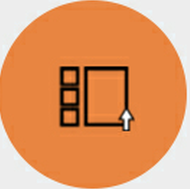
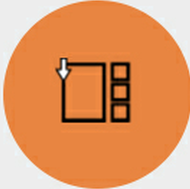
添加登录和退出功能；添加‘一键备份和一键迁移’两个页面

Changed region(s): [[0.2895, 0.291, 0.7105, 0.7143], [0.5263, 0.0, 1.0, 1.0], [0.0, 0.0, 0.4737, 1.0]]

diff --git a/static/js/controllers.js b/static/js/controllers.js
@@ -4,10 +4,12 @@
 
 var cloudAppControllers = angular.module('cloudAppControllers', ['ui.bootstrap']);
 
-cloudAppControllers.controller('loginCtrl', ['$scope',  'Request',
-  function($scope, Request) {
+cloudAppControllers.controller('loginCtrl', ['$scope','$http','$location','Message',
+  function($scope, $http,$location,Message) {
   
 	/* code section */
+  
+
 	var password_strength = function(pwd) {
     var strongRegex = new RegExp("^(?=.{8,})(?=.*[A-Z])(?=.*[a-z])(?=.*[0-9])(?=.*\\W).*$", "g");
     var mediumRegex = new RegExp("^(?=.{7,})(((?=.*[A-Z])(?=.*[a-z]))|((?=.*[A-Z])(?=.*[0-9]))|((?=.*[a-z])(?=.*[0-9]))).*$", "g");
@@ -26,10 +28,54 @@ cloudAppControllers.controller('loginCtrl', ['$scope',  'Request',
   $scope.login = function(){
     var result = password_strength($scope.password);
     console.log(result);
+  $http({method: 'POST', 
+            url: '/login',
+            data:{username:$scope.username, password:hex_md5($scope.password)}
+        }).
+    success(function(data, status, headers, config){
+      if(data.code == 1){
+        $location.path('/main');
+      } else {
+        console.log(data);
+      }
+    }).
+    error(function(data,status,headers,config){
+      console.log('failed get base network datas!');
+    });
   }
 
-
   }]);
+cloudAppControllers.controller('logoutCtrl', ['$rootScope','$scope','$timeout','$http','$location',
+  function($rootScope,$scope,$timeout,$http,$location){
+
+    $rootScope.isLogin = false;
+
+  $http.get('/xsrf', function(){
+      $http.post('/logout', {}, function(data){
+        Timeout(function(){$location.path('/');}, 3000, module);
+      });
+    });
+  $http({method: 'GET', 
+            url: '/xsrf'
+        }).
+    success(function(data, status, headers, config){
+      console.log(data);
+      $http({method: 'POST',
+                url:   '/logout',
+                data: {}}).
+            success(function(data,status,headers,config){
+                console.log('copy the return result.');
+                $location.path('/');
+            }).
+            error(function(data,status,headers,config){
+                  console.log('redict to root path failed');
+            });
+    }).
+    error(function(data,status,headers,config){
+      console.log('failed get base network datas!');
+    });
+
+}]);
 
 cloudAppControllers.controller('mainCtrl', ['$rootScope','$scope','$timeout','$http','$location',
   function($rootScope,$scope,$timeout,$http,$location){
@@ -72,36 +118,6 @@ cloudAppControllers.controller('mainCtrl', ['$rootScope','$scope','$timeout','$h
     }).
     error(function(data, status, headers, config) {
       console.log('failed get base system information');
-    });
-    $http({method: 'GET', url: rootUrl+'/query/server.rxtx'}).
-    success(function(data, status, headers, config){
-      lastData = data;
-      console.log(lastData);
-    }).
-    error(function(data,status,headers,config){
-      console.log('failed get base network datas!');
-    });
-
-    function yanshi(inttime){//延时（暂停）函数
-      var timestamp = new Date().getTime();
-      var jisuantime = timestamp
-      var jg;
-      while((jg=jisuantime*1-timestamp*1)<inttime){
-          jisuantime = new Date().getTime();
-     }
-      return jg;
-    }
-      setTimeout("console.log('1 秒！')",1000)
-      console.log('延迟了'+yanshi(9500)+'毫秒');
-
-
-    $http({method: 'GET', url: rootUrl+'/query/server.rxtx'}).
-    success(function(data, status, headers, config){
-      currentData = data;
-      console.log(currentData);
-    }).
-    error(function(data,status,headers,config){
-      console.log('failed get base network datas!');
     });
 
     // end your function codes
@@ -181,5 +197,19 @@ cloudAppControllers.controller('lnmp-installCtrl', ['$rootScope','$scope',
   /* custom code section */
   $rootScope.htmlTitle = "一键通";
   $scope.install_process_value = 30;
+  
+  }]);
+
+cloudAppControllers.controller('backupCtrl', ['$rootScope','$scope',
+  function($rootScope,$scope) {
+  /* custom code section */
+  $rootScope.htmlTitle = "一键通";
+  
+  }]);
+
+cloudAppControllers.controller('moveCtrl', ['$rootScope','$scope',
+  function($rootScope,$scope) {
+  /* custom code section */
+  $rootScope.htmlTitle = "一键通";
   
   }]);

diff --git a/static/partials/OneKey/index.html b/static/partials/OneKey/index.html
@@ -2,26 +2,12 @@
 	<br /><br /><br /><br /><br /><br /><br /><br /><br /><br />
 <ul class="ring clearfix">
 <li><a href="#"><img style="width:150px;" class="img-circle img-responsive" src="../../images/ring-nav/img1.png" /></a></li>
-<li><a href="#"><img style="width:150px;" class="img-circle img-responsive" src="../../images/ring-nav/img2.png" /></a></li>
-<li><a href="#"><img style="width:150px;" class="img-circle img-responsive" src="../../images/ring-nav/img3.png" /></a></li>
-<li><a href="#"><img style="width:150px;" class="img-circle img-responsive" src="../../images/ring-nav/img4.png" /></a></li>
+<li><a href="#"><img style="width:150px;" class="img-circle img-responsive" src="../../images/ring-nav/6.png" /></a></li>
+<li><a href="#"><img style="width:150px;" class="img-circle img-responsive" src="../../images/ring-nav/img6.png" /></a></li>
+<li><a href="#"><img style="width:150px;" class="img-circle img-responsive" src="../../images/ring-nav/2.png" /></a></li>
 <li><a href="#"><!-- 4444<label>55555</label> --><img style="width:150px;" class="img-circle img-responsive" src="../../images/ring-nav/img5.png" /></a></li>
 <li><a href="#"><img style="width:150px;" class="img-circle img-responsive" src="../../images/ring-nav/img6.png" /></a></li>
 <li><a href="#"><!-- <label>55555</label> --><img style="width:150px;" class="img-circle img-responsive" src="../../images/ring-nav/img5.png" /></a></li><!-- 这个是中间的图片 -->
 </ul>
 <br /><br /><br /><br /><br /><br /><br /><br /><br /><br /><br /><br /><br /><br /><br /><br /><br />
 </div>
-<!-- <div class="row"><br /><br />
-	<div class="col-lg-3 col-lg-offset-2"><img src="http://placehold.it/120x120" alt="..." class="img-circle img-responsive"></div>
-	<div class="col-lg-3 col-lg-offset-1"><img src="http://placehold.it/120x120" alt="" class="img-circle img-responsive">
-	</div>
-</div>
-<div class="row"><br /><br /><br />
-	<div class="col-lg-3 "><img src="http://placehold.it/120x120" alt="..." class="img-circle img-responsive"></div>
-	<div class="col-lg-3 col-lg-offset-1"><img src="http://placehold.it/120x120" alt="..." class="img-circle img-responsive"></div>
-	<div class="col-lg-3 col-lg-offset-1"><img src="http://placehold.it/120x120" alt="..." class="img-circle img-responsive"></div>
-</div>
-<div class="row"><br /><br /><br />
-	<div class="col-lg-3 col-lg-offset-2"><img src="http://placehold.it/120x120" alt="..." class="img-circle img-responsive"></div>
-	<div class="col-lg-3 col-lg-offset-1"><img src="http://placehold.it/120x120" alt="..." class="img-circle img-responsive"></div>
-</div> -->

diff --git a/static/partials/login.html b/static/partials/login.html
@@ -1,3 +1,4 @@
+<div ng-include src="'/xsrf'"></div>
 <form class="form-signin" role="form"  ng-submit="login()" onsubmit="return false" method="get" action="/">
 
     <h2 class="form-signin-heading text-center">用户登陆</h2>
@@ -5,10 +6,10 @@
     <input id='username' type="text"  maxlength="10" ng-model="username" class="form-control" placeholder="用户名" required autofocus>
     <input id='password' type="password" maxlength="12" ng-model="password" class="form-control" placeholder="密码" required >
 
-    <div class="col-lg-6 col-sm-6" style="padding-left:0"><input type="text" class="form-control" placeholder="{{username}}" required></div>
-	<div class="col-lg-6 col-sm-6" style="padding-right:0"><input type="text" class="form-control" placeholder="验证码" required></div>
+    <!-- <div class="col-lg-6 col-sm-6" style="padding-left:0"><input type="text" class="form-control" placeholder="{{username}}" required></div>
+	<div class="col-lg-6 col-sm-6" style="padding-right:0"><input type="text" class="form-control" placeholder="验证码" required></div> -->
 
-    <button  type="submit" id="login" class="btn btn-lg btn-primary btn-block"  ng-disabled="processing" ng-click="login()">登 陆</button>
+    <button  type="submit" id="login" class="btn btn-lg btn-primary btn-block"  ng-disabled="processing" >登 陆</button>
 	<div class="pull-right"><a  href="#/main"> 忘记密码?</a>	</div>
 </form>
 <script type="text/javascript">

diff --git a/static/js/directives.js b/static/js/directives.js
@@ -32,8 +32,8 @@ directive('navbar', function(){
   				<li><a href="#/sites/create">一键建站</a></li>\
   				<li><a href="#/sites/lamp">一键LAMP</a></li>\
   				<li><a href="#/sites/lnmp">一键LNMP</a></li>\
-  				<li><a href="#/sites/create">一键备份</a></li>\
-  				<li><a href="#/sites/lamp">一键迁移</a></li>\
+  				<li><a href="#/sites/backup">一键备份</a></li>\
+  				<li><a href="#/sites/move">一键迁移</a></li>\
   				<li><a href="#/sites/lnmp">一键优化</a></li>\
 			</ul>\
 		</accordion-group>\
@@ -51,6 +51,13 @@ directive('navbar', function(){
   				<li><a href="#/sites/lamp">用户列表</a></li>\
 			</ul>\
 		</accordion-group>\
+		<div class="panel panel-default" >\
+  			<div class="panel-heading text-center" style="background-color: #1375B2;">\
+    			<h4 class="panel-title">\
+     				<a href="#/logout" >退出</a>\
+    			</h4>\
+  			</div>\
+  		</div>\
  	 </accordion></div>',
 		replace: true
 	};

diff --git a/static/index.html b/static/index.html
@@ -48,6 +48,7 @@
 				<a class="comment btn btn-mini" href="http://blog.kyyj.net" target="_blank"><i class="icon-comment"></i> 用户交流社区</a>
 			</div>
 	</div>
+  <div message></div>
 
     <script src="lib/bootstrap/js/jquery.js"></script>
     <script src="lib/bootstrap/js/bootstrap.js"></script>
@@ -62,6 +63,7 @@
     <script src="js/controllers/controllers.js"></script>
     <script src="js/controllers.js"></script>
     <script src="js/directives.js"></script>
+    <script src="lib/md5/md5.js"></script>
     
     <script src="js/services.js"></script>
     <script src="js/ui-bootstrap-0.10.0.js"></script>

diff --git a/static/js/app.js b/static/js/app.js
@@ -49,6 +49,18 @@ cloudApp.config(['$routeProvider',
         templateUrl: 'partials/OneKey/lamp-processing.html',
         controller: 'lamp-installCtrl'
       }).
+      when('/sites/backup', {
+        templateUrl: 'partials/OneKey/backup.html',
+        controller: 'backupCtrl'
+      }).
+      when('/sites/move', {
+        templateUrl: 'partials/OneKey/move.html',
+        controller: 'moveCtrl'
+      }).
+      when('/logout', {
+       templateUrl: 'partials/login.html',
+        controller: 'logoutCtrl'
+      }).
       otherwise({
         redirectTo: '/login'
       });

diff --git a/static/partials/main.html b/static/partials/main.html
@@ -1,3 +1,4 @@
+<div ng-include src="'/xsrf'"></div>
 <div id="mainBoard">
 
 <div id="myCarousel" class="carousel slide"> 

diff --git a/lib/vpsmate/web.py b/lib/vpsmate/web.py
@@ -415,7 +415,7 @@ class QueryHandler(RequestHandler):
     /query/config.fstab(sda1)
     """
     def get(self, items):
-        #self.authed()
+        self.authed()
         
         items = items.split(',')
         qdict = {'server': [], 'service': [], 'config': [], 'tool': []}
